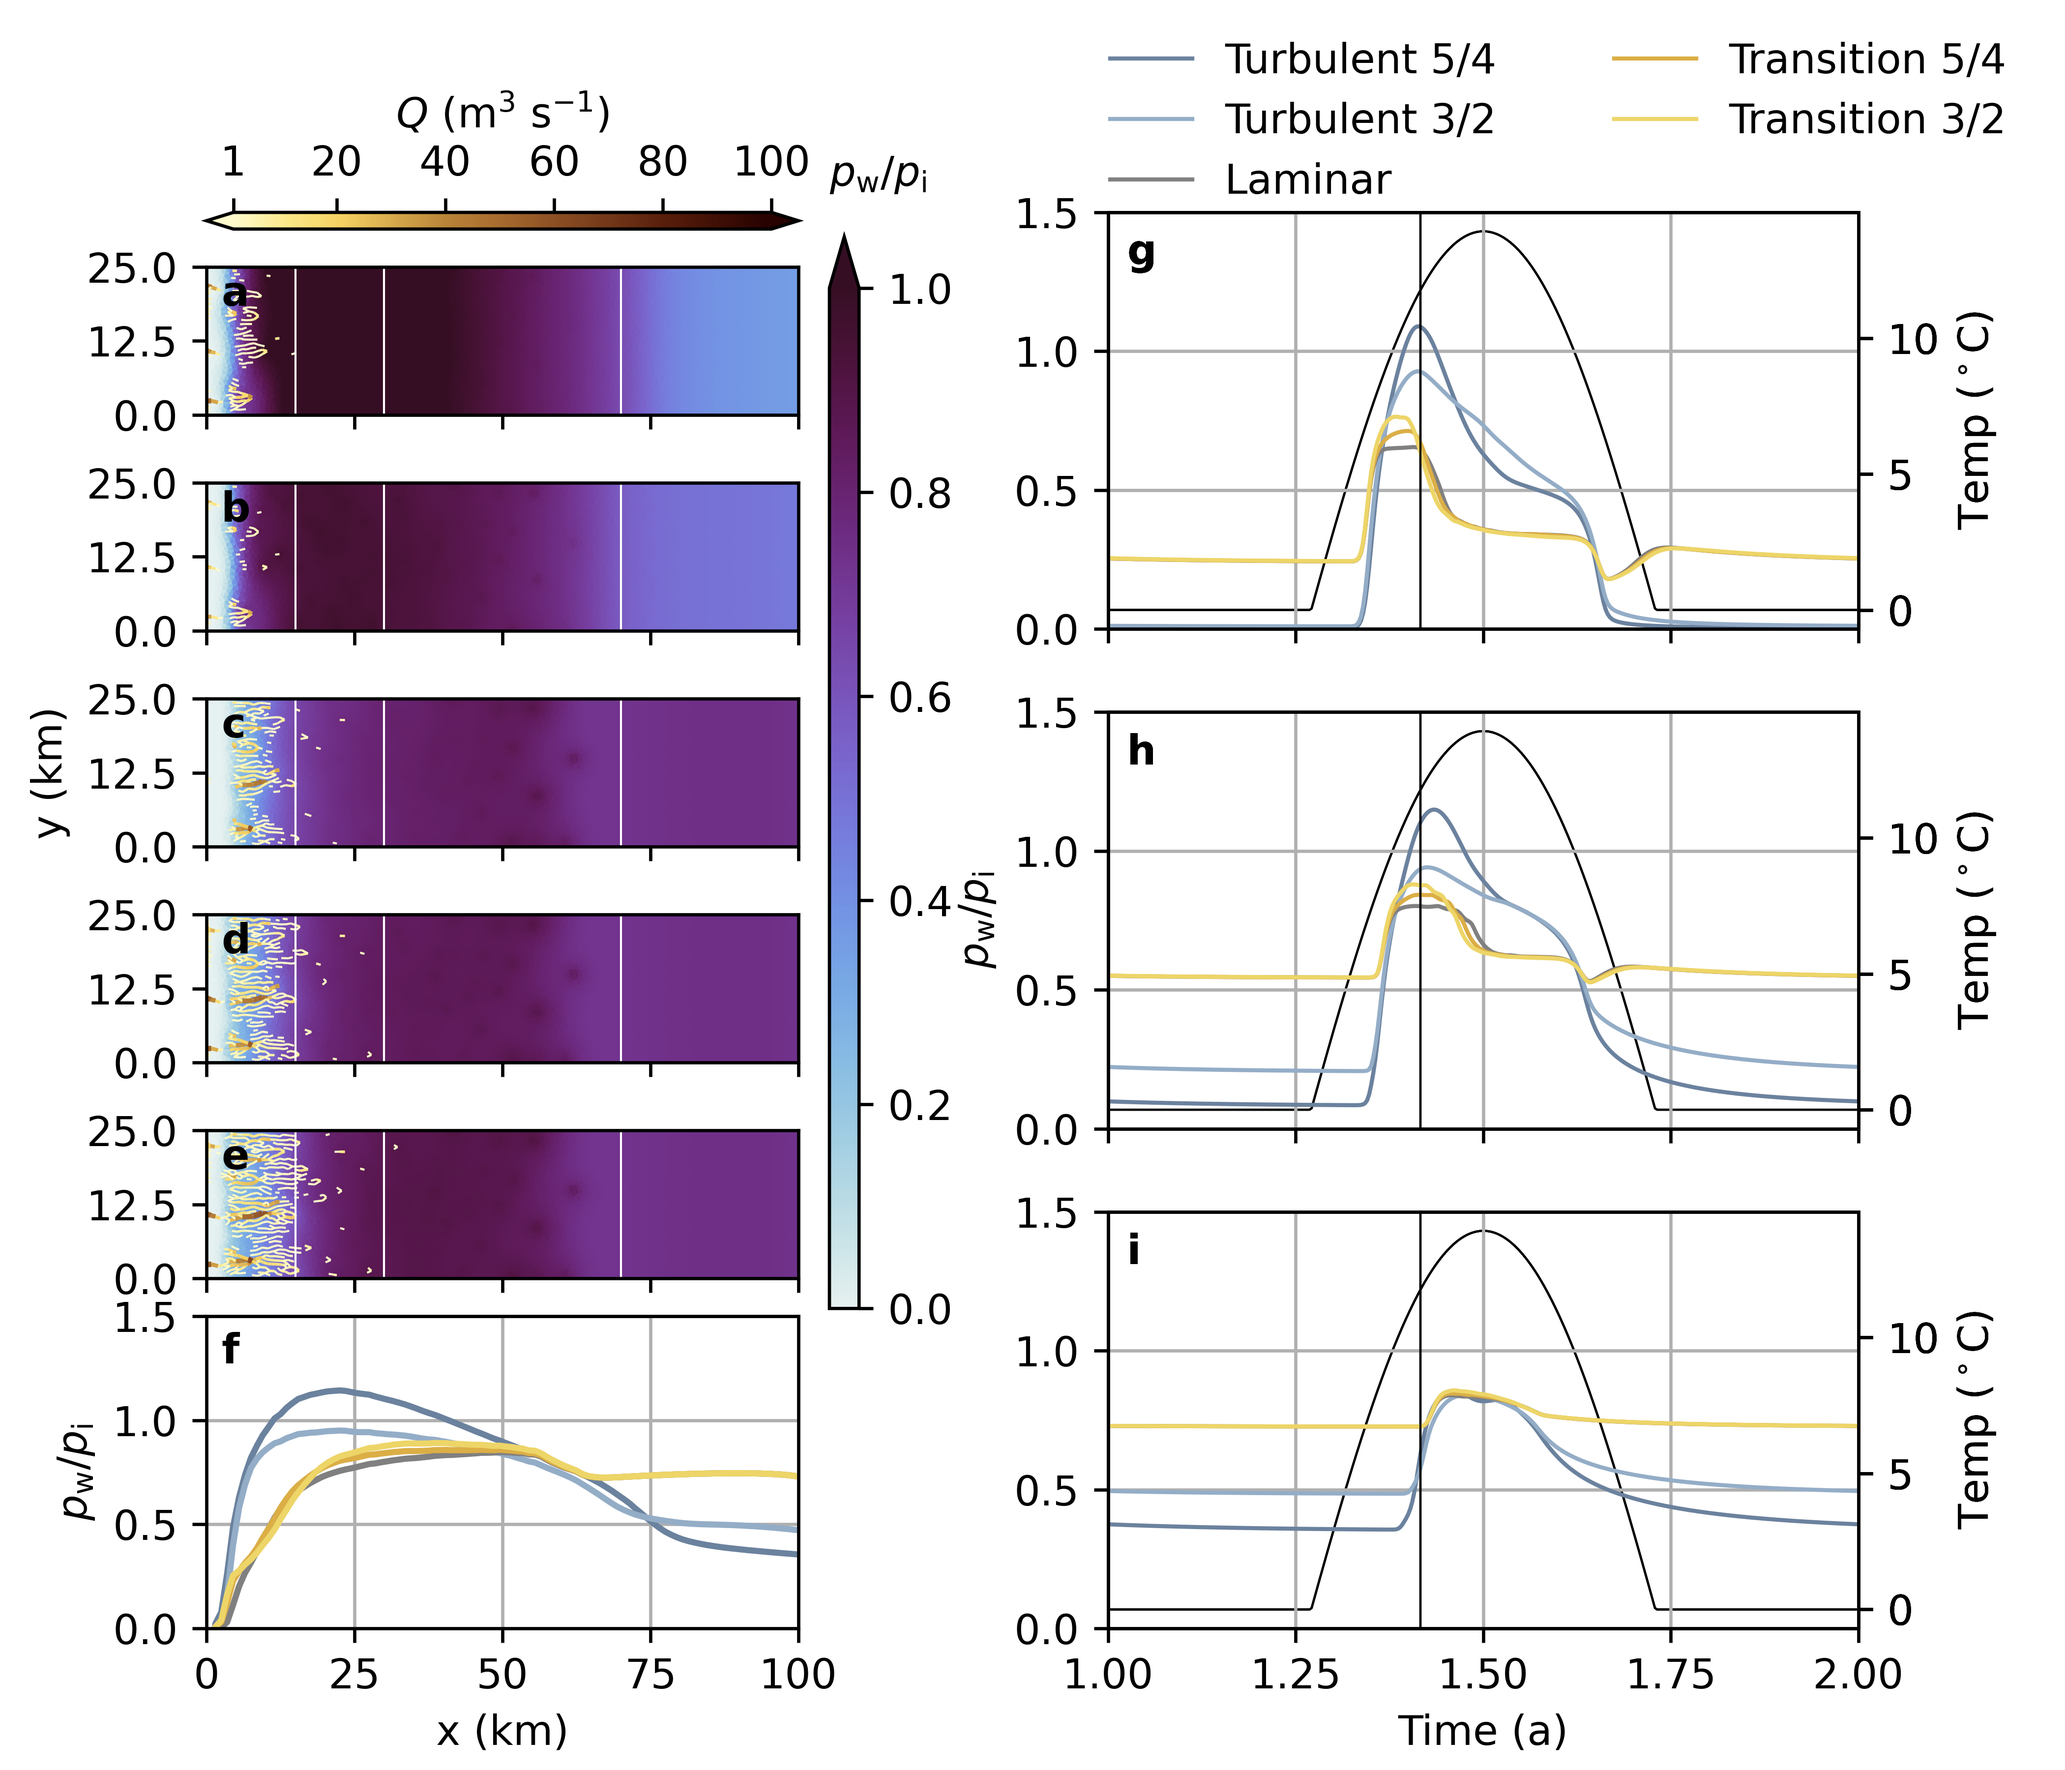
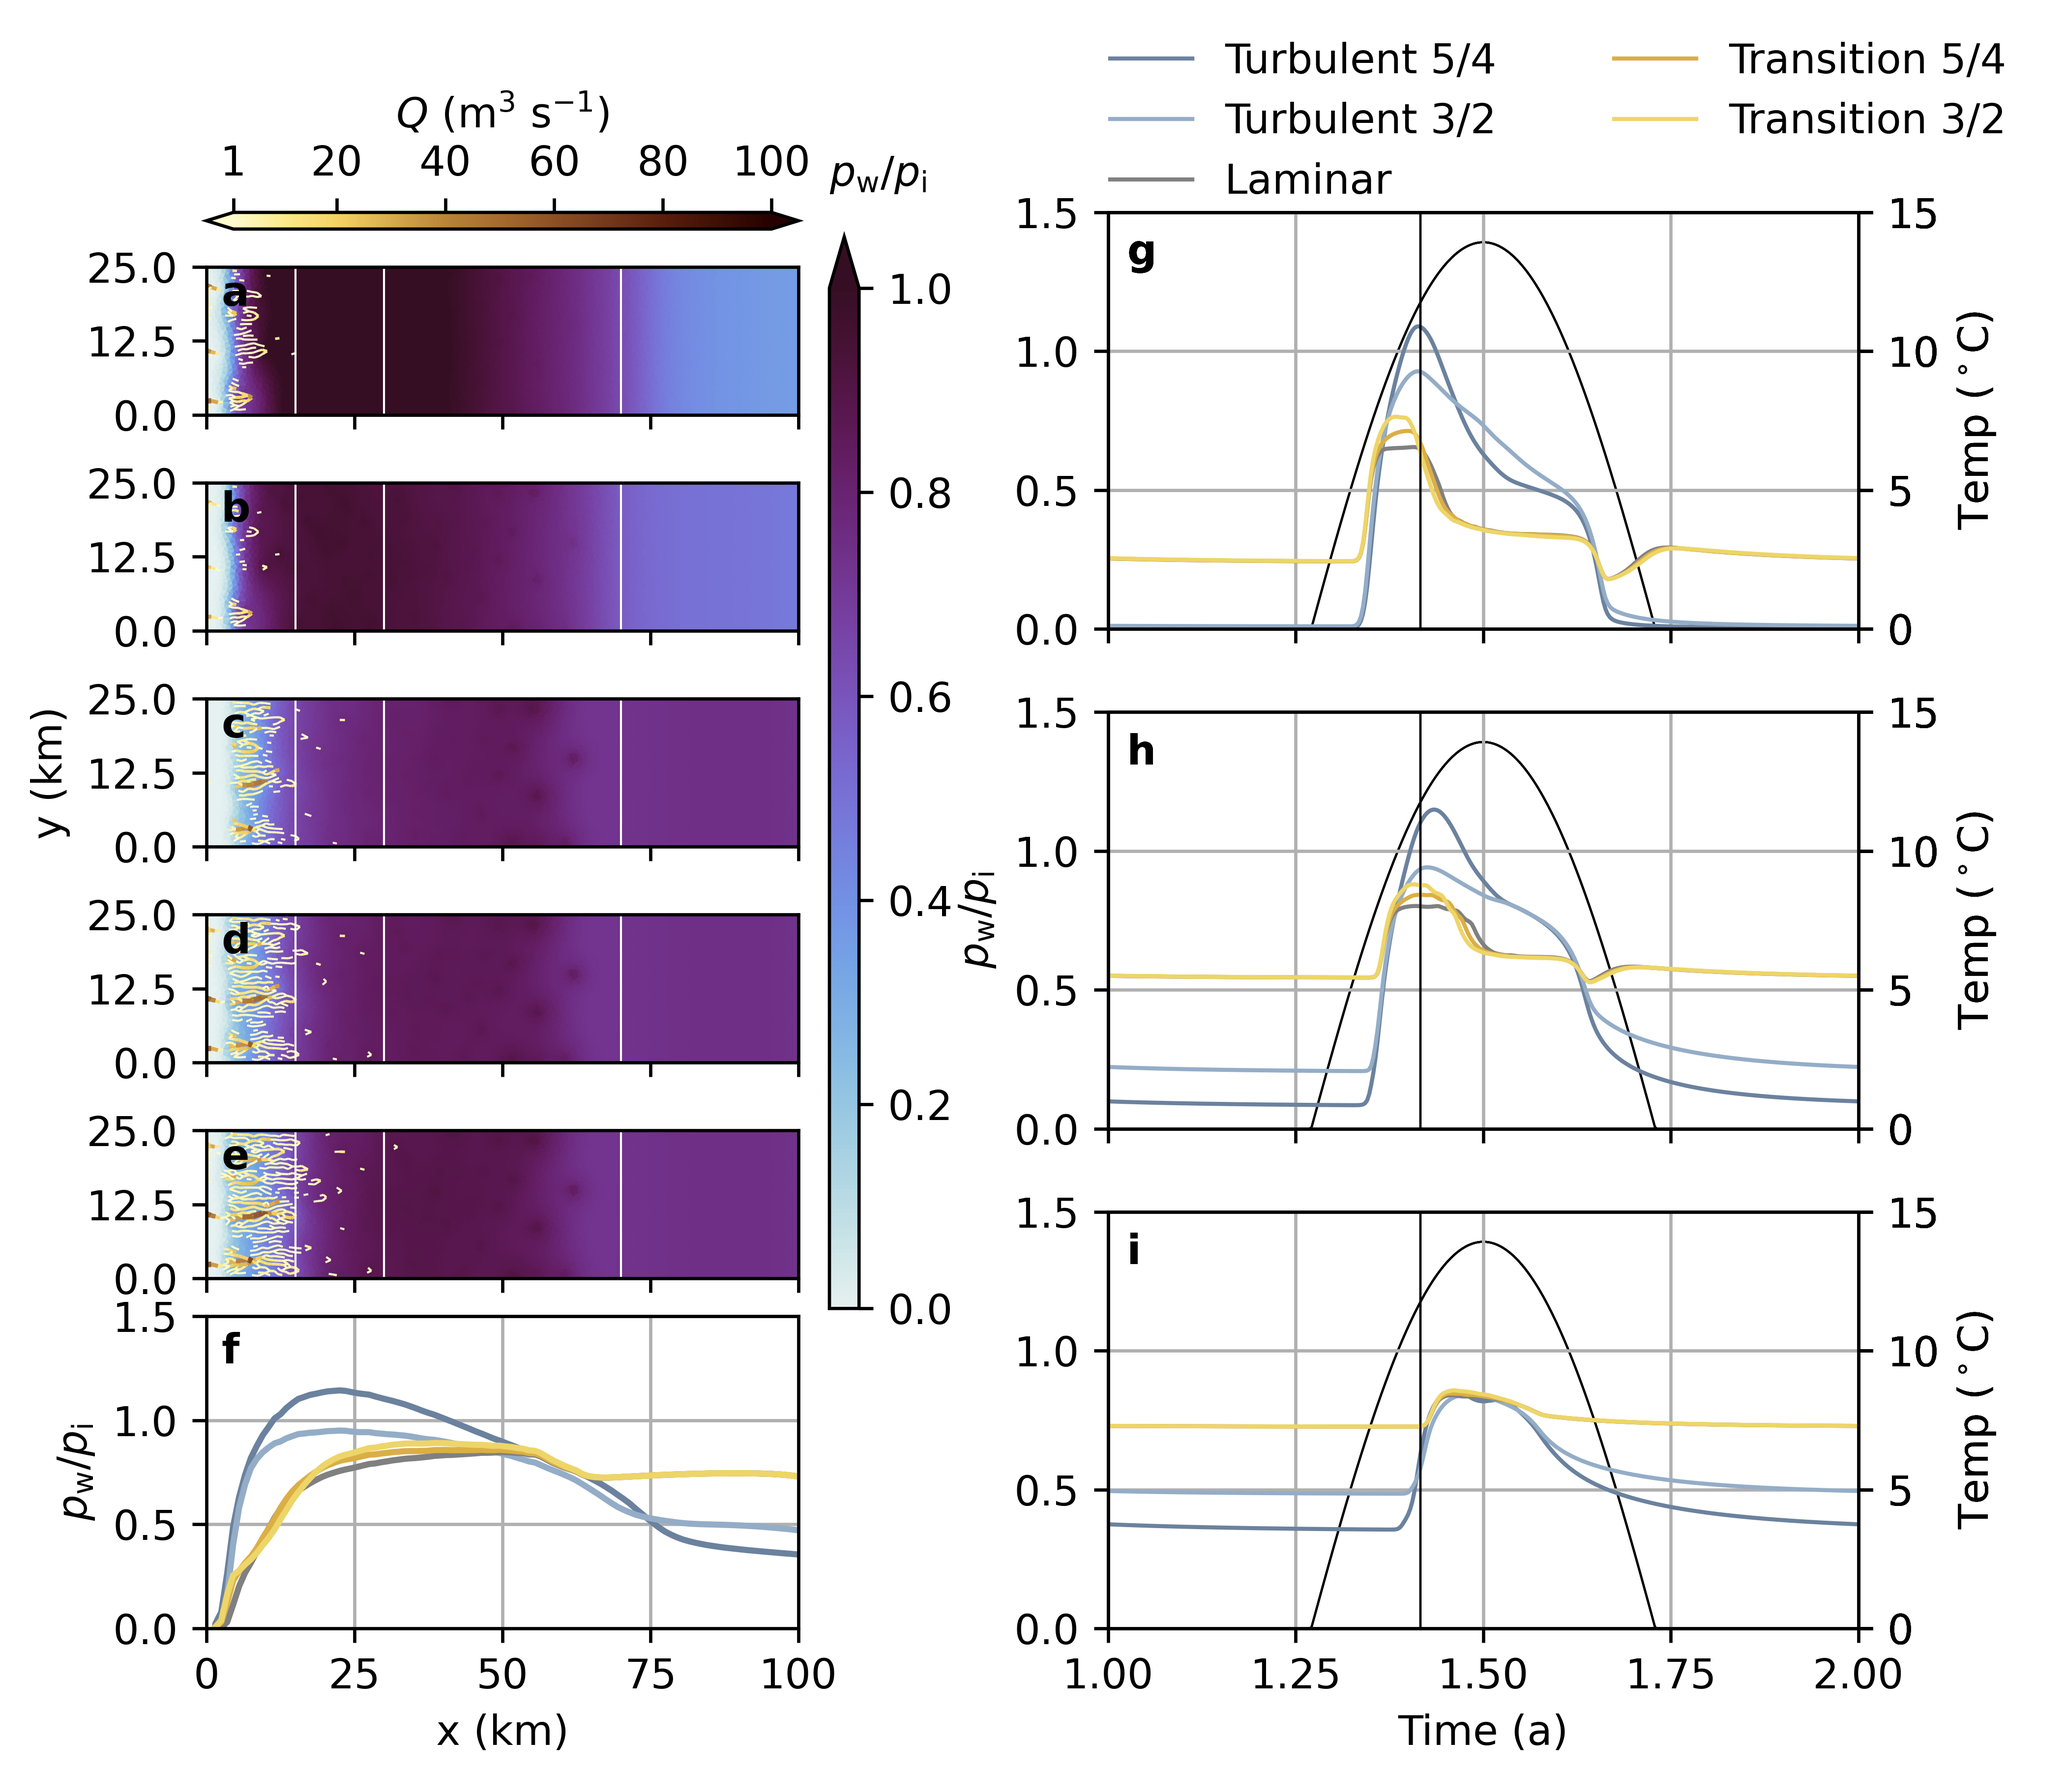
Temp ylim

diff --git a/analysis/plot_pressure_maps_timeseries.py b/analysis/plot_pressure_maps_timeseries.py
@@ -221,6 +221,8 @@ def plot_pressure_maps_timeseries(fnames, figname, tslice=defaults.tslice,
                 ax_right.plot(tt, melt, color='k', linewidth=0.5)
             
             ax_right.set_ylabel('Temp ($^\circ$C)')
+            ax_right.set_ylim([0, 15])
+            ax_right.set_yticks([0, 5, 10, 15])
             timeax.set_zorder(3)
             ax_right.set_zorder(2)
             timeax.patch.set_visible(False)
